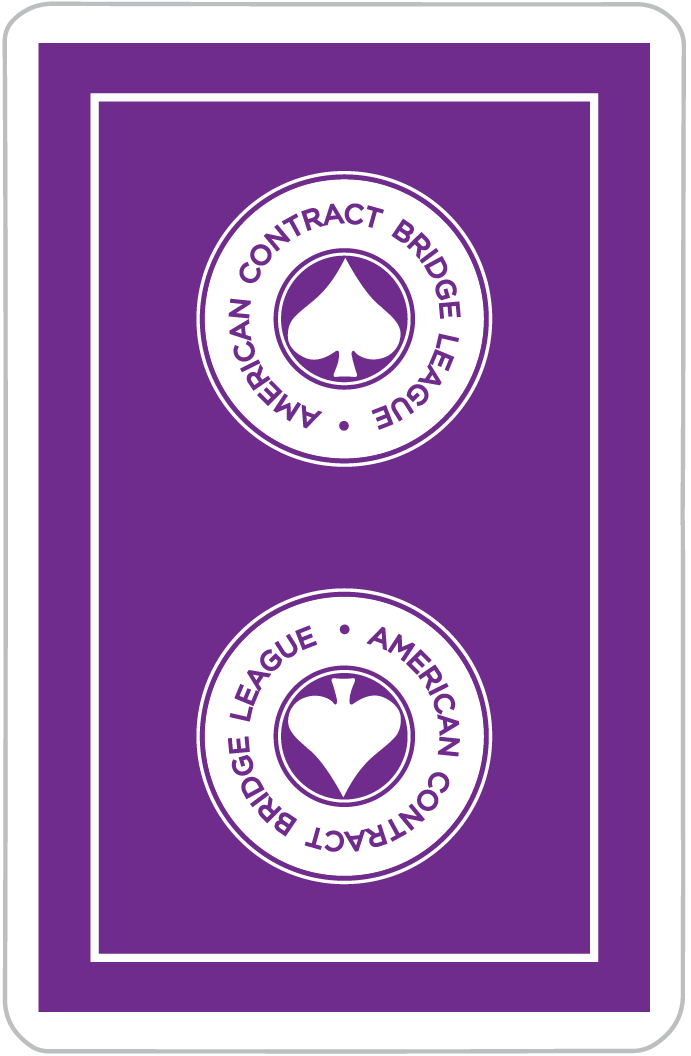
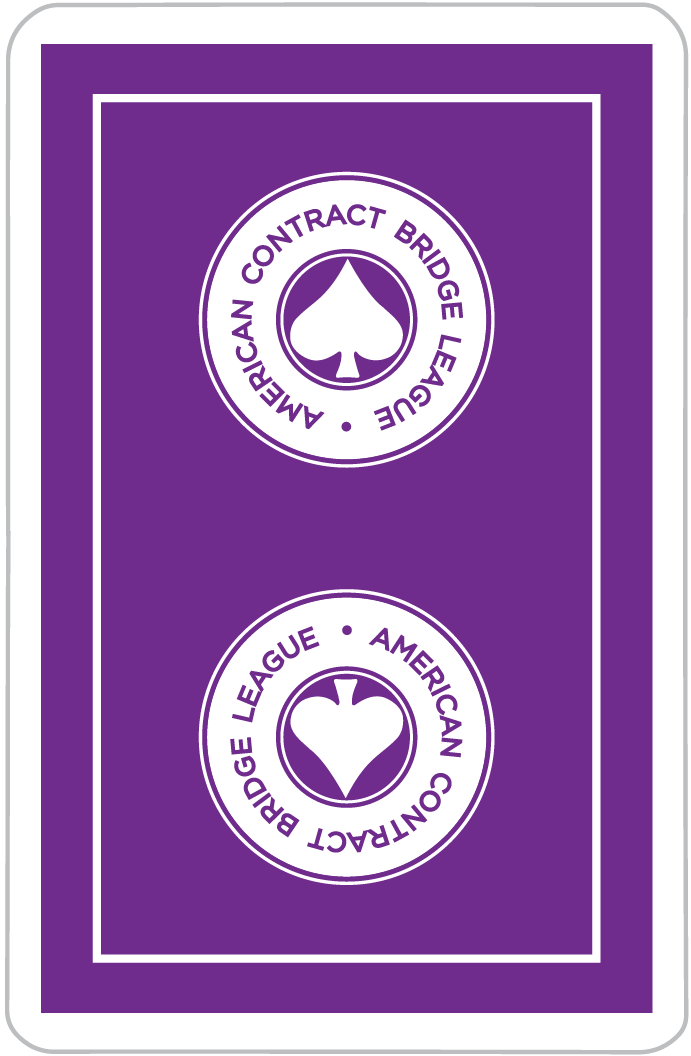
changed cards to purple

diff --git a/src/Game/Game.js b/src/Game/Game.js
@@ -14,7 +14,7 @@ import { SuitBets } from '../Bets/SuitBets';
 import { NumBets } from '../Bets/NumBets';
 import { keepSorted, handelSort } from '../Hand/handFunctions'
 import { nicknameList } from '../WaitingRoom/waitingRoomFuctions'
-import {widthStyle, heightStyle, sizeCalc} from './gameFunctions'
+import { widthStyle, heightStyle, sizeCalc } from './gameFunctions'
 
 let isSuitBetting, isNumBetting;
 export const Game = (props) => {
@@ -144,7 +144,7 @@ export const Game = (props) => {
       setCenter(props.cardsMap['center']);
     }
     return () => clearTimeout(timeoutId);
-  // }, [props.cardsMap, props.turn, props.bet]);
+    // }, [props.cardsMap, props.turn, props.bet]);
   }, [props]);
 
 
@@ -181,8 +181,13 @@ export const Game = (props) => {
       <div className='topContainer'>
         <div className={isTopTurn ? 'topBox isTurn' : 'topBox'}>
           <CompetitorsHand numOfCards={TopHand} className="P3hand" cardClassName='card' style={widthStyle(sizeCalc(TopHand))} />
-          {topWinnerCards !== 0 ? <WinnerCards numOfCards={topWinnerCards} className='P3winnerCards' cardClassName='winnedCard' style={widthStyle(sizeCalc(topWinnerCards))} /> : null}
-          <div className='currntBet'>{topNickname}  currnt bet: {topBet}</div>
+          <div className='topBetAndWins'>
+            {topWinnerCards !== 0 ? <WinnerCards numOfCards={topWinnerCards} className='P3winnerCards' cardClassName='winnedCard' style={widthStyle(sizeCalc(topWinnerCards))} /> : null}
+            <div>
+              <div className='currntBet'>{topNickname} </div>
+              <div className='currntBet'> bet: {topBet}</div>
+            </div>
+          </div>
         </div>
       </div>
 
@@ -192,12 +197,12 @@ export const Game = (props) => {
           {leftWinnerCards !== 0 ? <WinnerCardsRotated numOfCards={leftWinnerCards} className='P4winnerCards' cardClassName='winnedSideCard' /> : null}
           <div>
             <div>{leftNickname}</div>
-            {props.suitBet ? <div className='currntBet'>currnt bet: {leftBet}</div> : null}
+            {props.suitBet ? <div className='currntBet'>bet: {leftBet}</div> : null}
             {/* {isLeftTurn ? <div>current turn</div> : null} */}
           </div>
         </div>
         <div className='centerBox'>
-          {props.sliceingSuit !== null ? <div>Sliceing Suit: {shapePointer[props.sliceingSuit]} </div> : null}
+          {props.sliceingSuit !== null ? <div className='slicingSuit'>Sliceing Suit: {shapePointer[props.sliceingSuit]} </div> : null}
           {centerCards.length !== 0 ? <Center arrayOfCards={centerCards.map(c => c[0])} className="center" /> : null}
         </div>
         <div className={isRightTurn ? 'rightBox isTurn' : 'rightBox'}  >
@@ -205,7 +210,7 @@ export const Game = (props) => {
           {rightWinnerCards !== 0 ? <WinnerCardsRotated numOfCards={rightWinnerCards} className='P2winnerCards' cardClassName='winnedSideCard' /> : null}
           <div>
             <div>{rightNickname}</div>
-            {props.suitBet ? <div className='currntBet'>currnt bet: {rightBet}</div> : null}
+            {props.suitBet ? <div className='currntBet'>bet: {rightBet}</div> : null}
             {/* {isRightTurn ? <div>current turn</div> : null} */}
           </div>
         </div>
@@ -215,7 +220,7 @@ export const Game = (props) => {
         <div className='winAndSortAndBet'>
           <div className='sortAndBet'>
             <button className='smallButton' onClick={() => handelSort(setMyHand, myHand, setIsSorted)} disabled={IsSorted} >sort</button>
-            <div>currnt bet: {myBet}</div>
+            <div>bet: {myBet}</div>
           </div>
           {myWinnerCards !== 0 ? <WinnerCards numOfCards={myWinnerCards} className='P1winnerCards' cardClassName='myWinnedCard' style={widthStyle(sizeCalc(myWinnerCards))} /> : null}
           {isSuitBetting ? <SuitBets client={props.client} clientId={props.clientId} isMyTurn={isMyTurn} suitBet={props.suitBet} /> : null}

diff --git a/src/Modals/GameCreatedModal.js b/src/Modals/GameCreatedModal.js
@@ -5,22 +5,22 @@ import { Button } from "@mui/material"
 export const GameCreatedModal = (props) => {
     const setOpenGameCreatedModal = props.setisGameCreatedModal;
     return <div>
-        <div class="modalBackground">
-            <div class="modalContainer">
+        <div className="modalBackground">
+            <div className="modalContainer">
                 <div className="titleCloseBtn"><button  
                 onClick={()=> setOpenGameCreatedModal(false)}>X
                 </button>
                 </div>
-                <div class="title"></div>
-                <div class="body">
-                    <div class="text-right cross"> <i class="fa fa-times"></i> </div>
-                    <div class="card-body text-center"> <img src="https://img.icons8.com/stickers/100/000000/cards.png" />
+                <div className="title"></div>
+                <div className="body">
+                    <div className="text-right cross"> <i className="fa fa-times"></i> </div>
+                    <div className="card-body text-center"> <img src="https://img.icons8.com/stickers/100/000000/cards.png" />
                         <h4>GAME CREATED SUCCSSFULY</h4>
                         <h3>GameId: {props.gameId}</h3>
                     </div>
-                    <div class="footer">
-                        <button onClick={()=> setOpenGameCreatedModal(false)} class="btn btn-out btn-square continue">CONTINUE</button>
-                        <button class="btn btn-out btn-square continue">COPY GAME ID</button>
+                    <div className="footer">
+                        <button onClick={()=> setOpenGameCreatedModal(false)} className="btn btn-out btn-square continue">CONTINUE</button>
+                        <button className="btn btn-out btn-square continue">COPY GAME ID</button>
                     </div>
                 </div>
             </div>

diff --git a/src/App/App.js b/src/App/App.js
@@ -55,6 +55,7 @@ const App = () => {
   const [game, setGame] = useState(null);
   // const [isGameCreatedModal, setisGameCreatedModal] = useState(false);
   const [isLeftGameModal, setIsLeftGameModal] = useState(false);
+  const [isScore, setIsScore] = useState(false);
 
   const showLeftGameModal = () => {
     setIsLeftGameModal(true);
@@ -68,6 +69,7 @@ const App = () => {
   };
 
   client.onmessage = (message) => {
+    // @ts-ignore
     response = JSON.parse(message.data);
     if (response.method === "connect") {
       setClientId(response.clientId);
@@ -129,8 +131,9 @@ const App = () => {
       }
     }
     if (response.method === "score") {
-      setScoreMap(response.scoreMap)
-      alert("your score is: " + response.scoreMap[playerNum])
+      setScoreMap(response.scoreMap);
+      setIsScore(true);
+      alert("your score is: " + response.scoreMap[playerNum]);
     }
   };
 
@@ -168,7 +171,9 @@ const App = () => {
           sliceingSuit={sliceingSuitState}
           minBet={minBetState}
           scoreMap={scoreMapState}
-          clients = {isMock ? mock.clients : (game ? game.clients : null)} />
+          clients = {isMock ? mock.clients : (game ? game.clients : null)}
+          setIsScore = {setIsScore}
+          isScore = {isMock ? mock.isScore : isScore} />
         } />
       </Routes>
     </div>

diff --git a/src/Hand/CompetitorsHand.js b/src/Hand/CompetitorsHand.js
@@ -3,12 +3,12 @@ import '../Card/Card.css';
 
 export const CompetitorsHand = (props) => {
   let cards = new Array(props.numOfCards)
-  cards.fill(<div className='card-container'><UnClickableCard cardName="blue_back" className={props.cardClassName}/></div>)
-  return <div className={props.className}>{cards}</div>;
+  cards.fill(<div className='card-container'><UnClickableCard cardName="purple_back" className={props.cardClassName}/></div>)
+  return <div style={props.style} className={props.className}>{cards}</div>;
 }
 
 export const CompetitorsHandRotated = (props) => {
   let cards = new Array(props.numOfCards)
-  cards.fill(<div className='sideCard-container'><UnClickableCard cardName="blue_back_rotate" className={props.cardClassName}/></div>)
+  cards.fill(<div className='sideCard-container'><UnClickableCard cardName="purple_back_rotate" className={props.cardClassName}/></div>)
   return <div style={props.style} className={props.className}>{cards}</div>;
 }

diff --git a/src/WinnerCards/WinnerCards.js b/src/WinnerCards/WinnerCards.js
@@ -3,13 +3,13 @@ import '../Card/Card.css';
 
 export const WinnerCards = (props) => {
   let cards = new Array(props.numOfCards)
-  cards.fill(<div className='card-container'><UnClickableCard cardName="blue_back" className={props.cardClassName}/></div>)
+  cards.fill(<div className='card-container'><UnClickableCard cardName="purple_back" className={props.cardClassName}/></div>)
   return <div style={props.style} className={props.className}>{cards}</div>;
 }
 
 
 export const WinnerCardsRotated = (props) => {
   let cards = new Array(props.numOfCards)
-  cards.fill(<div className='sideCard-container'><UnClickableCard cardName="blue_back_rotate" className={props.cardClassName}/></div>)
+  cards.fill(<div className='sideCard-container'><UnClickableCard cardName="purple_back_rotate" className={props.cardClassName}/></div>)
   return <div style={props.style} className={props.className}>{cards}</div>;
 }

diff --git a/src/Game/Game.css b/src/Game/Game.css
@@ -33,19 +33,23 @@
 .centerBox {
   display: flex;
   flex-direction: column;
-  justify-content: center;
+  justify-content: flex-start;
   border-style: solid;
-  border-color: black;
-  height: 10vw;
+  border-color: wheat;
+  height: 9.5vw;
   left: 50%;
   /* top: 50%; */
   position: absolute;
   transform: translate(-50%);
+  border-radius: 7px;
+  padding: 4px;
 }
 
 .isTurn {
   border-style: solid;
-  border-color: black;
+  border-color: wheat;
+  border-radius: 7px;
+  padding: 5px;
 }
 
 .leftBox,
@@ -83,6 +87,16 @@
   justify-self: flex-end;
 }
 
-.currntBet{
+.currntBet {
   margin: 3px;
+}
+
+.slicingSuit {
+  margin: 6px;
+}
+
+.topBetAndWins {
+  display: flex;
+  width: 100%;
+  justify-content: space-between;
 }

diff --git a/src/index.css b/src/index.css
@@ -1,9 +1,13 @@
+@import url(https://fonts.googleapis.com/css?family=Fuzzy+Bubbles);
+
 body {
   height: 100%;
   margin: 0;
-  font-family: -apple-system, BlinkMacSystemFont, 'Segoe UI', 'Roboto', 'Oxygen',
+  font-family:'Fuzzy Bubbles' ;
+  color: wheat;
+  /* font-family: -apple-system, BlinkMacSystemFont, 'Segoe UI', 'Roboto', 'Oxygen',
     'Ubuntu', 'Cantarell', 'Fira Sans', 'Droid Sans', 'Helvetica Neue',
-    sans-serif;
+    sans-serif; */
   -webkit-font-smoothing: antialiased;
   -moz-osx-font-smoothing: grayscale;
 }

diff --git a/src/pages/WaitingRoomPage.js b/src/pages/WaitingRoomPage.js
@@ -6,7 +6,7 @@ import LeaveButton from '../Buttons/LeaveButton';
 
 export const WaitingRoomPage = (props) => {
     // const clients = props.game.clients;
-    return <div>
+    return <div className='waitingRoomContainer'>
         {props.isLeftGameModal ? <LeftGameModal
             setIsLeftGameModal={props.setIsLeftGameModal}
             nickname={props.nickname} /> : null}

diff --git a/src/mocks/mock.js b/src/mocks/mock.js
@@ -18,10 +18,10 @@ export const mock = {
         ],
         "center": [],
         "P2": 4,
-        "P3": 13,
-        "P4": 13
+        "P3": 5,
+        "P4": 6
     },
-    // winnedCards: { P1: 2, P2: 6, P3: 5, P4: 0 },
+    winnedCards: { P1: 2, P2: 6, P3: 5, P4: 0 },
     turn: "P1",
     isSuitBetting: true,
     isNumBetting: false,

diff --git a/src/pages/LoginPage.css b/src/pages/LoginPage.css
@@ -1,11 +1,11 @@
 @import url(https://fonts.googleapis.com/css?family=Luckiest+Guy);
 
-.LoginPage{
-    /* display: flex;
+/* .LoginPage{
+    display: flex;
     height: 100vh;
     justify-content: center;
-    flex-direction: column; */
-}
+    flex-direction: column;
+} */
 
 .welcomeAndLogo{
     display: flex;

diff --git a/src/WaitingRoom/WaitingRoom.css b/src/WaitingRoom/WaitingRoom.css
@@ -1,8 +1,10 @@
 .waitingRoom{
-    /* position:absolute;
-    right: 5%;
-    top: 30%; */
     display: flex;
     align-items: center;
     flex-direction: column;
+}
+
+.waitingRoomContainer{
+    display: flex;
+    align-items: center;
 }

diff --git a/src/login/login.css b/src/login/login.css
@@ -1,7 +1,7 @@
 .login{
     position: relative;
     top: 12vh;
-    background-color: white;
+    background-color: rosybrown;
     padding: 15px;
     width: fit-content;
     border-radius: 5px;
